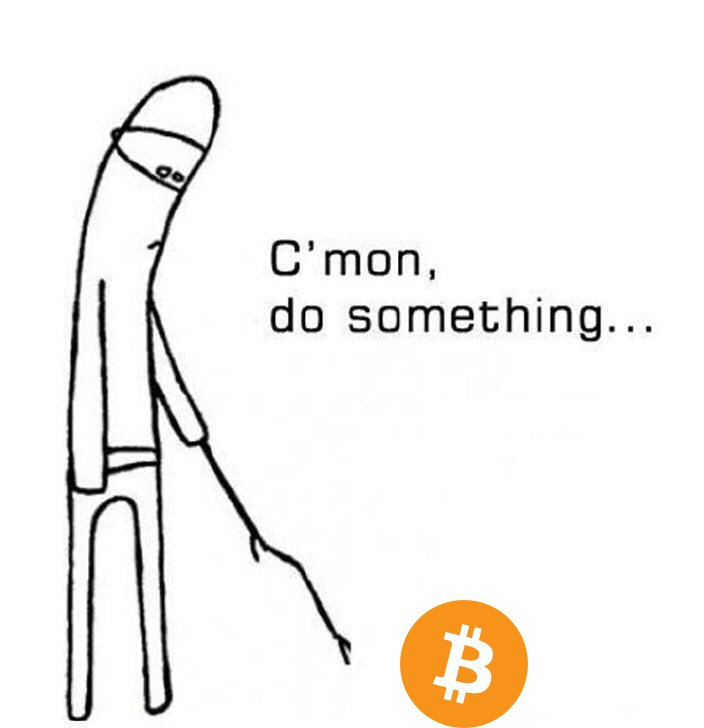
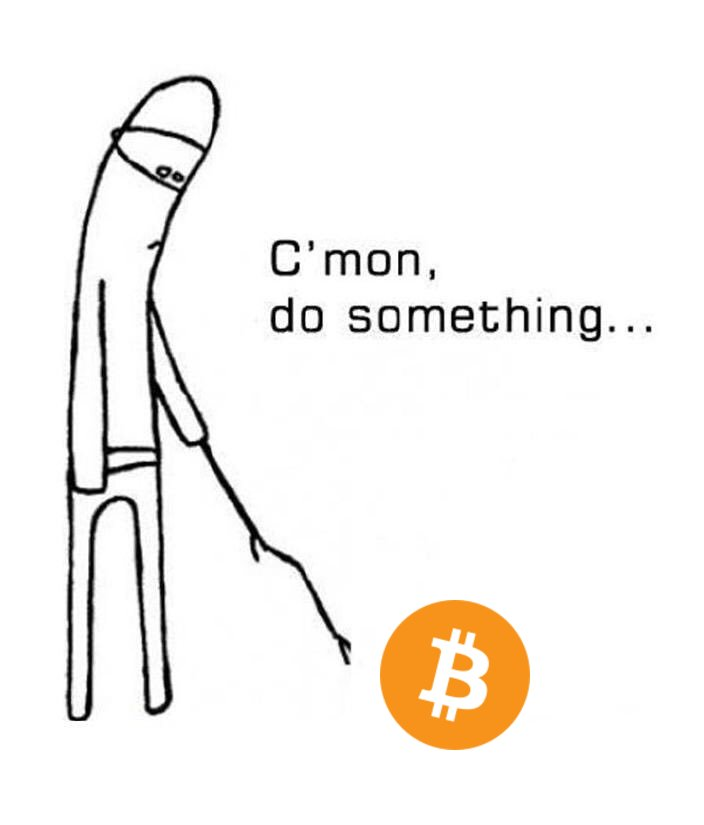
Fixed image sizes

Changed region(s): [[0.0938, 0.0907, 0.5, 0.9973], [0.375, 0.272, 0.875, 0.4835], [0.5312, 0.7253, 0.75, 1.0]]

diff --git a/bot/helper.js b/bot/helper.js
@@ -78,10 +78,10 @@ export const formatCoins = (coinArray) => {
     })
 }
 
-function compositeImage(coinImage, isPerson, channel) {
+function compositeImage(coinImage, channel) {
     gm()
         .in('-page', '+0+0')
-        .in(isPerson ? './bot/images/do something person.jpg' :'./bot/images/do something person.jpg')
+        .in('./bot/images/do something.jpg')
         .in('-page', '+380+600')
         .in(coinImage)
         .flatten()
@@ -169,11 +169,15 @@ export const showImage = async (name, ext, channel) => {
     return request(options).catch(err => console.error(new Error(err)))
 }
 
-export const doSomething = (coin, channel) => {
-    console.log(people.includes(coin))
-    if(people.includes(coin)){
-        compositeImage('./bot/images/' + coin + '.jpg', true, channel)
+export const doSomething = (image, channel) => {
+    console.log(people.includes(image))
+    if(people.includes(image)){
+        compositeImage('./bot/images/' + image + '.jpeg', channel)
     }else {
-        compositeImage(`./node_modules/cryptocurrency-icons/dist/128/color/${coin}.png`, false, channel)
+        gm(`./node_modules/cryptocurrency-icons/dist/128/color/${image}.png`).resize(150,150)
+            .write(`./node_modules/cryptocurrency-icons/dist/128/color/${image}.png`, (err) => {
+            if (err) console.log(err)
+            else compositeImage(`./node_modules/cryptocurrency-icons/dist/128/color/${image}.png`, channel)
+        })
     }
 }
